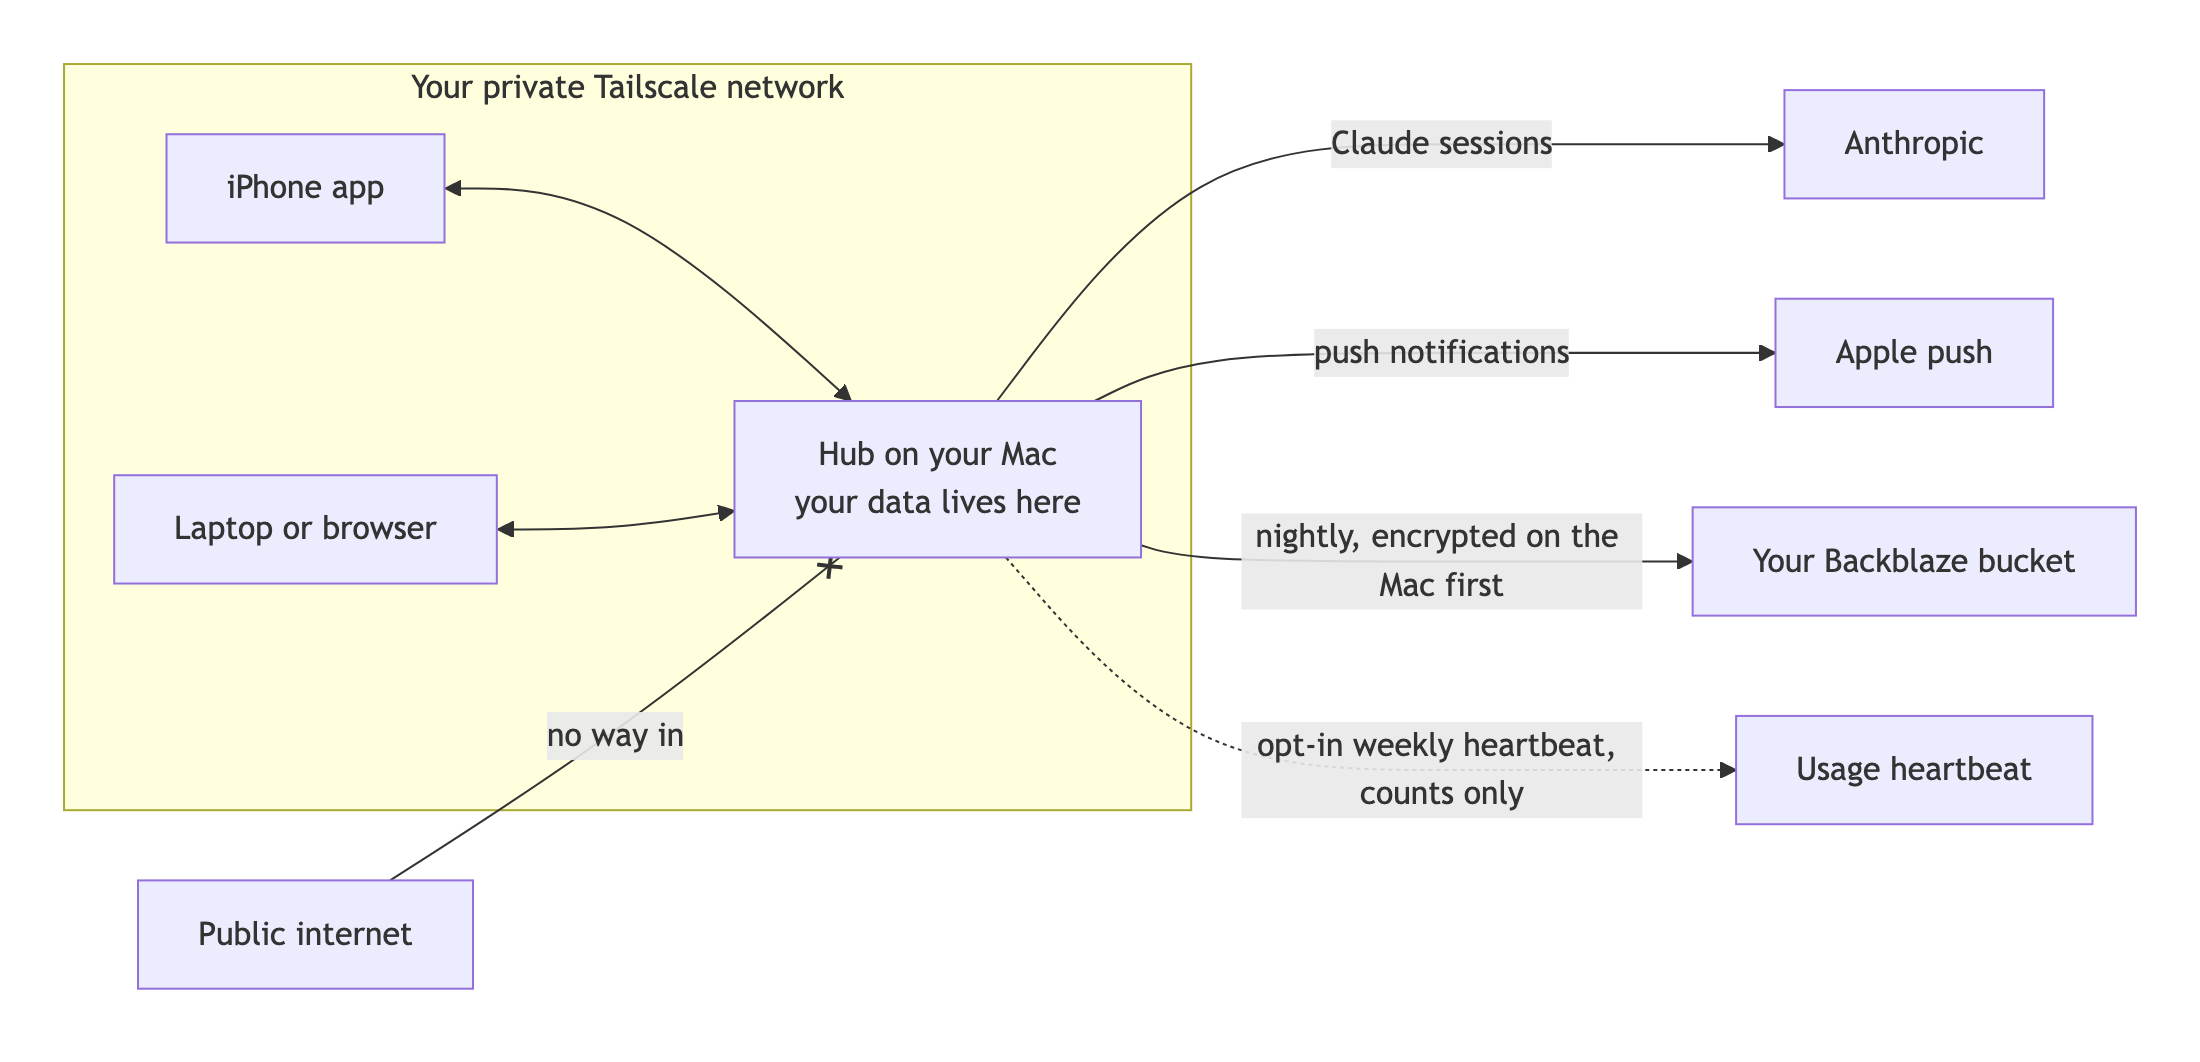
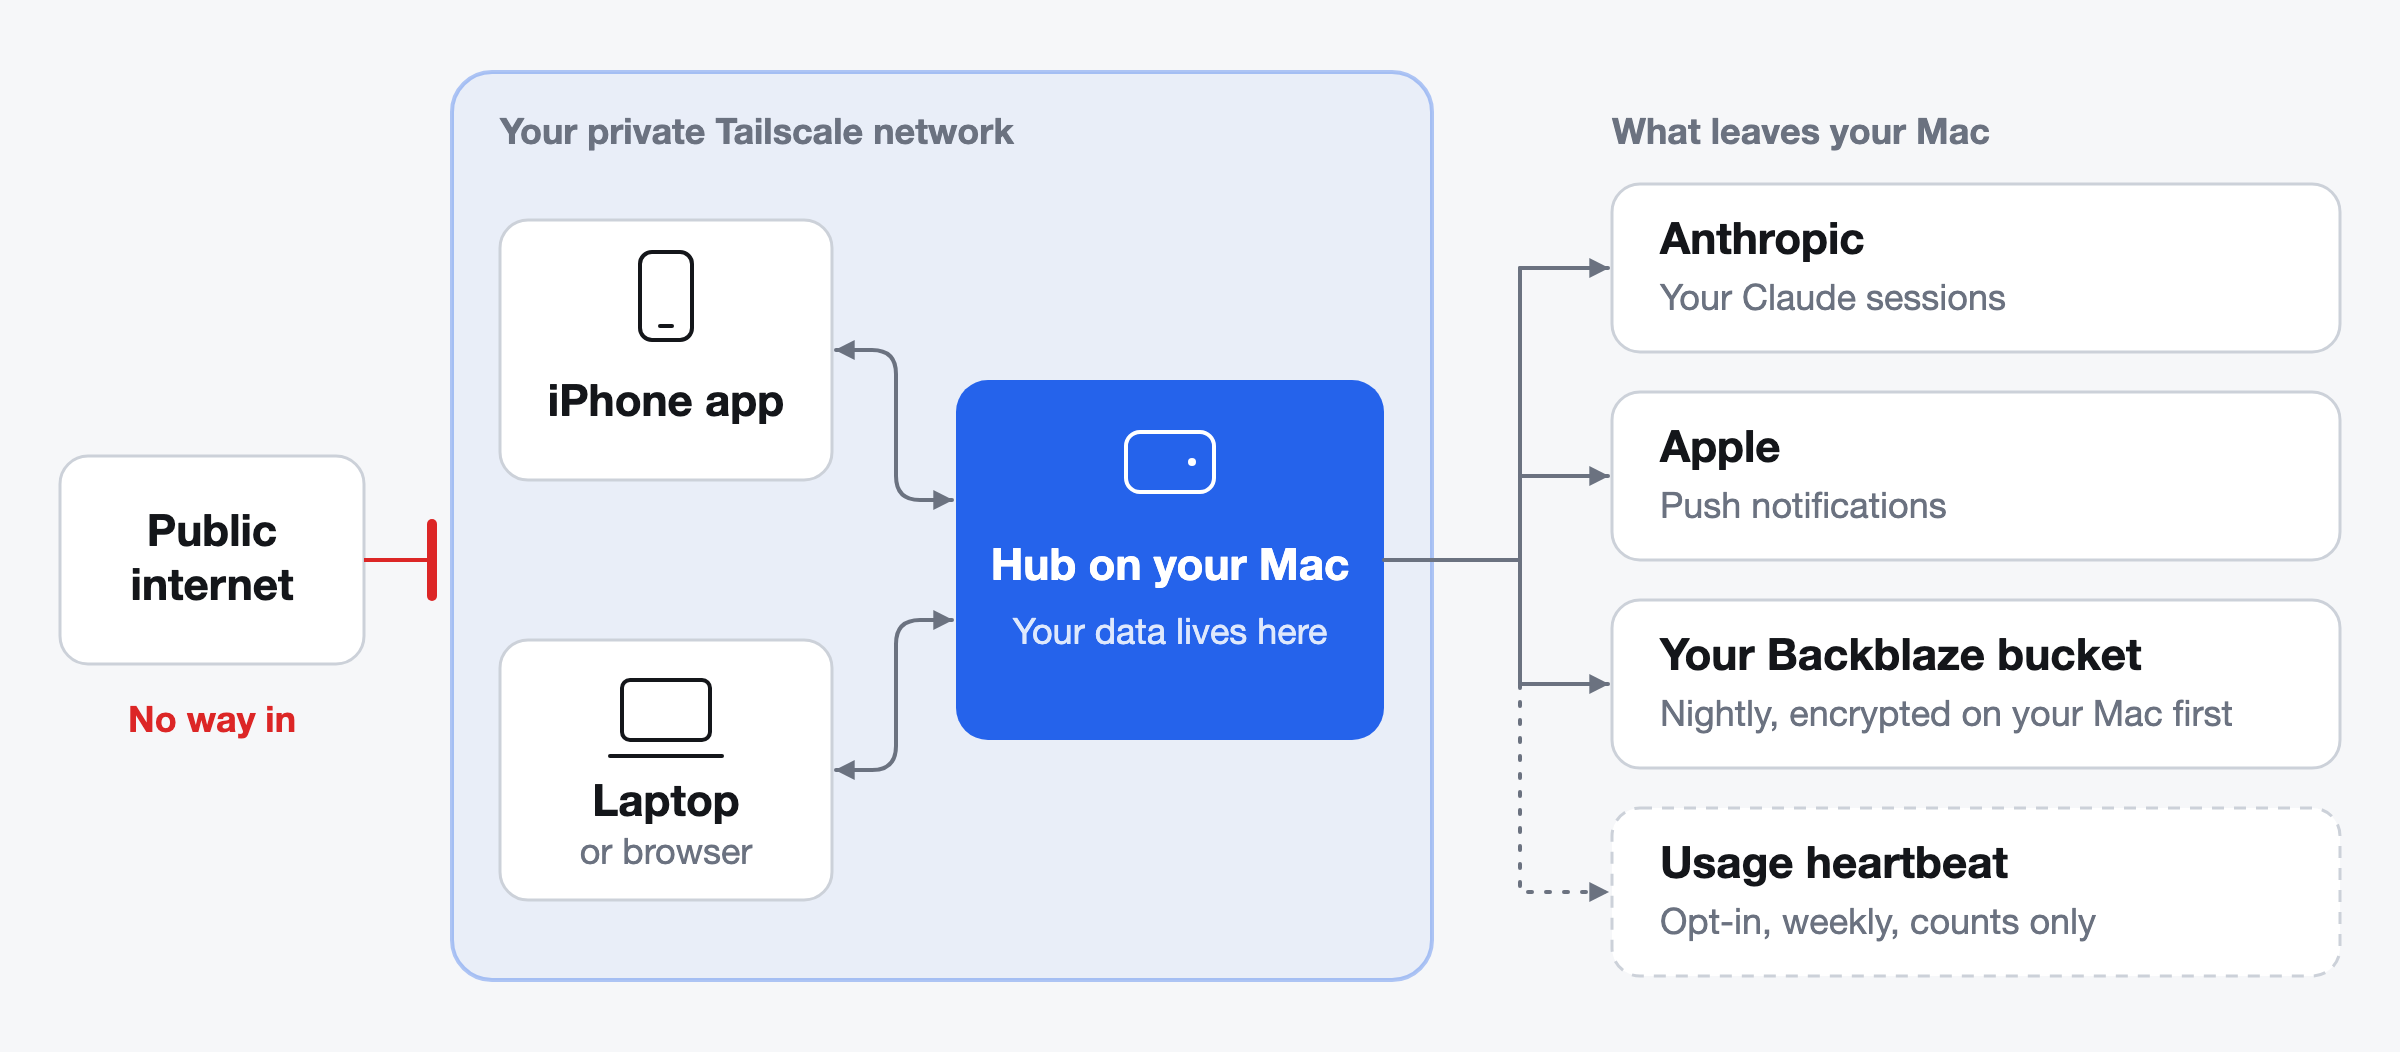
README: redraw the security diagram (#38)

diff --git a/README.md b/README.md
@@ -163,12 +163,13 @@ The agent follows [SETUP.md](SETUP.md). Here is the timeline.
 Your data lives on your Mac. The hub listens only on your private
 [Tailscale](https://tailscale.com) network, so nothing about it is public.
 
-<p align="center"><img src="docs/img/security.png" alt="Security diagram for life: the iPhone app and a laptop or browser talk to the hub on your Mac inside your private Tailscale network, where your data lives. The hub reaches out to only four places: Anthropic for Claude sessions, Apple push for notifications, your Backblaze bucket for nightly backups encrypted on the Mac first, and an opt-in weekly usage heartbeat with counts only. The public internet has no way in." width="900"></p>
+<p align="center"><picture><source media="(prefers-color-scheme: dark)" srcset="docs/img/security-dark.png"><img src="docs/img/security.png" alt="Security diagram for life: the iPhone app and a laptop or browser talk to the hub on your Mac inside your private Tailscale network, where your data lives. Only four things leave your Mac: Claude sessions to Anthropic, push notifications to Apple, nightly backups encrypted on the Mac first to your Backblaze bucket, and an opt-in weekly usage heartbeat with counts only. The public internet has no way in." width="900"></picture></p>
 
 - **Nothing public.** No open ports, no public URL. Your phone reaches the
   hub through Tailscale.
-- **Outbound, only three places:** Anthropic (your Claude sessions), Apple
-  (push notifications), and an optional weekly heartbeat.
+- **Outbound, only four places:** Anthropic (your Claude sessions), Apple
+  (push notifications), your own backup bucket, and an optional weekly
+  heartbeat.
 - **The heartbeat is off unless you say yes.** The agent asks once at
   setup, and the answer defaults to no. If you say yes, it sends a random
   install id, the version and a few counts. Never text, titles, names or

diff --git a/ADDENDA.md b/ADDENDA.md
@@ -720,3 +720,8 @@ Entry format:
 - For: everyone
 - Offer: A security fix, worth taking. The OTA token is blanked from the request log, which sessions can read. `hub.token` is read the way its clients read it, a file holding no token is refused instead of overwritten, and a new token is written beside the file and renamed in.
 - How: same merge as add-0008. By hand: `server/server.go` (`logPath`), `cmd/hub/main.go`, their tests.
+
+## add-0070 · 2026-10-30 · A clearer security diagram
+- For: everyone
+- Offer: Docs only, nothing to run. The README's security diagram is redrawn, in light and dark, and its outbound list now names all four places, your backup bucket included.
+- How: same merge as add-0008. By hand: `README.md`, `docs/img/security.png`, `docs/img/security-dark.png`.
